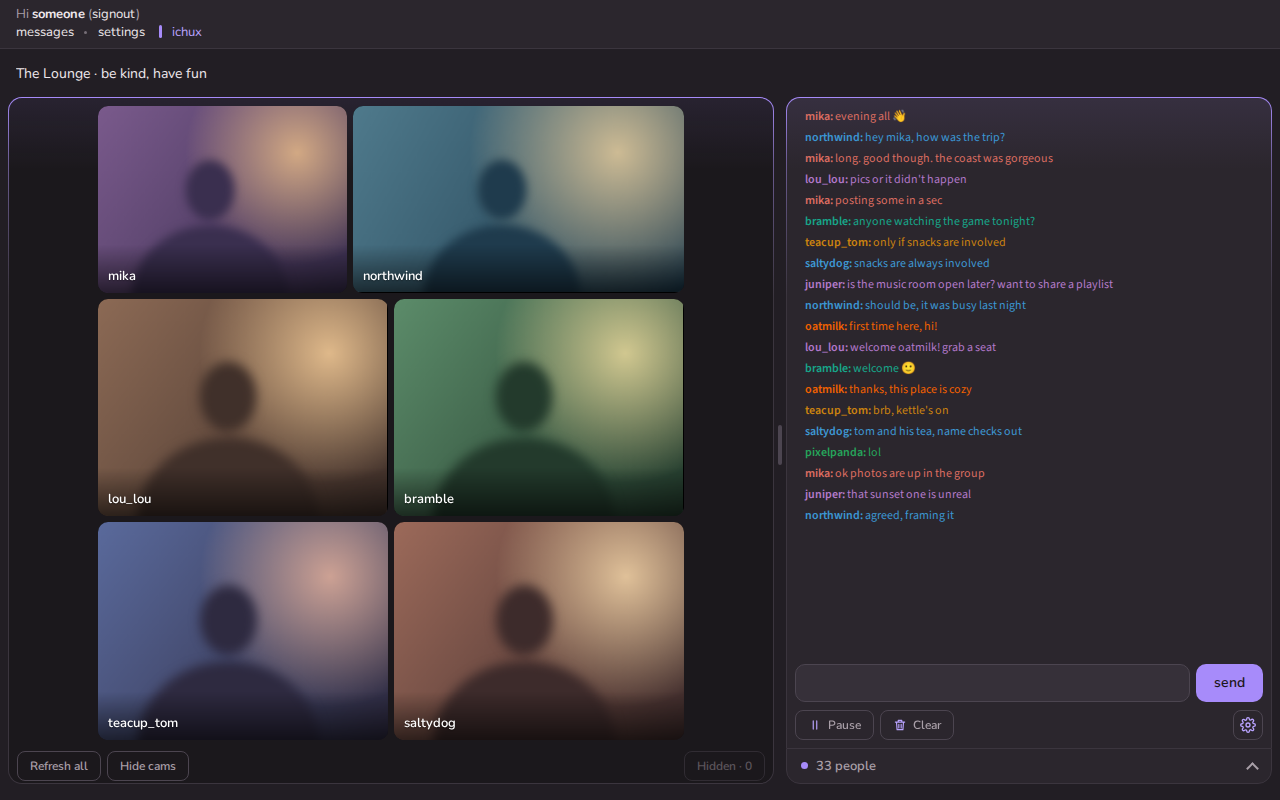
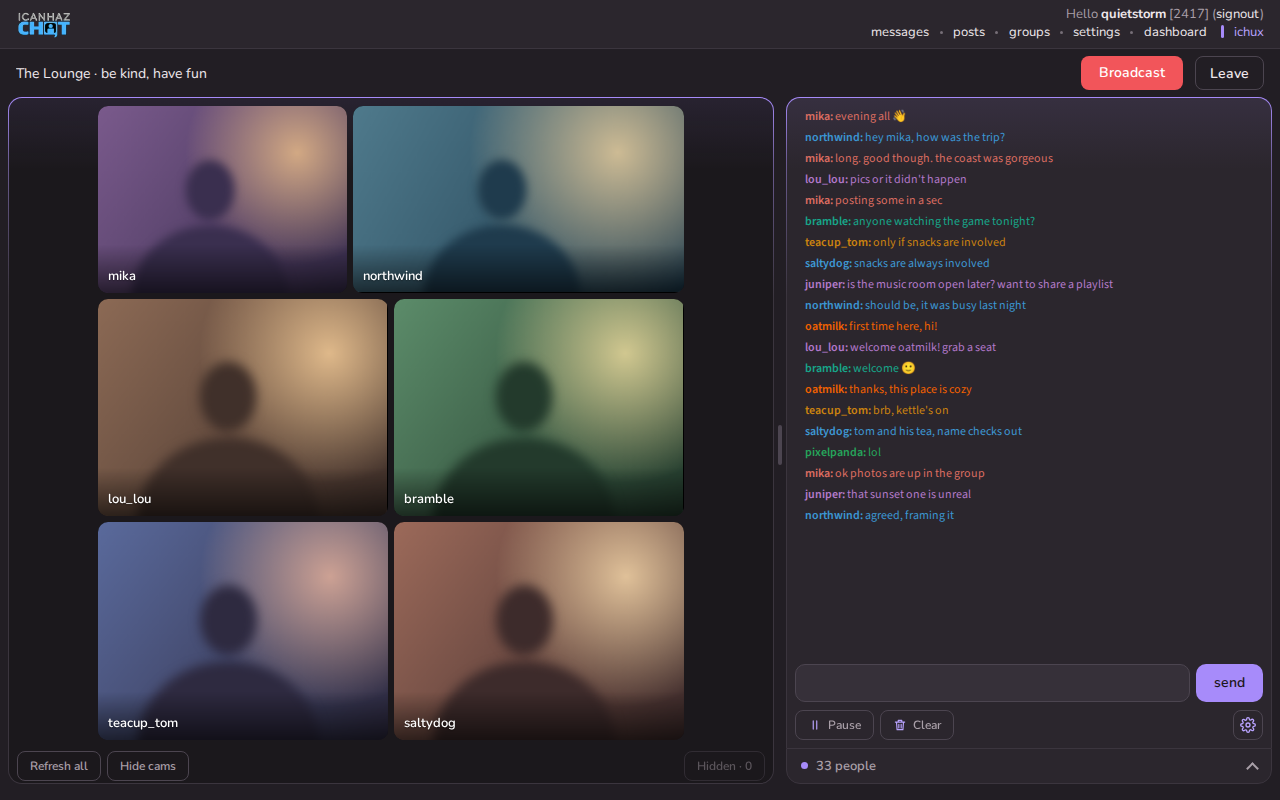
adding notes for new claude session

Changed region(s): [[0.8438, 0.0, 1.0, 0.125], [0.0, 0.0, 0.1562, 0.0625], [0.6875, 0.0312, 0.8125, 0.0625]]

diff --git a/scripts/screenshots.js b/scripts/screenshots.js
@@ -2,6 +2,11 @@
 // store/screenshots/.
 //
 //   node scripts/screenshots.js        (needs Playwright + Chromium)
+//   ICX_SHOT_LOGO=path/to/logo.png node scripts/screenshots.js
+//
+// The header matches the site's own (logo, greeting, karma, the five
+// links), as does the room's (topic, Broadcast, Leave). The site's logo isn't part of this repo: point ICX_SHOT_LOGO at
+// a copy of it to show it, or the header goes without.
 //
 // Shot from the test stand-ins (test/mock), copied to a temporary folder and
 // dressed for a store page: soft lit "rooms" with a blurred, featureless
@@ -101,7 +106,29 @@ const FEED_SOURCE = `
 
 `;
 
+// The site header as the real site writes it when you're signed in
+// (rooms call the outer div #panelHeader, other pages #ctl00_panelHeader).
+const VIEWER = 'quietstorm';
+function siteHeader(id, logo) {
+    const links = ['messages', 'posts', 'groups', 'settings', 'dashboard']
+        .map(l => `<a href="javascript:void 0">${l}</a>`).join(' ');
+    return `<div id="${id}" class="row gray_back page_header rounded">` +
+        `<div class="col-0 col-lg-2" style="z-index:1000;"><div class="page_header_logo" id="ichc-logo-header">` +
+        `<a href="javascript:void 0">${logo ? `<img id="ichc-logo" src="${logo}" alt="">` : ''}</a></div></div>` +
+        `<div class="col-12 col-lg-10 txtright" style="text-align:right"><div class="page_header_userlinks"><span id="${id === 'panelHeader' ? 'labelSignInStatus' : 'ctl00_labelSignInStatus'}">` +
+        `Hello <a href="javascript:void 0"><b id="userID" style="font-size:large;">${VIEWER}</b></a> [<span title="karma">2417</span>] ` +
+        `<span class="header_links">(<a href="javascript:void 0">signout</a>)<br>${links} </span></span></div></div></div>`;
+}
+
+function logoDataUrl() {
+    const file = process.env.ICX_SHOT_LOGO;
+    if (!file) { return ''; }
+    const type = file.endsWith('.webp') ? 'image/webp' : file.endsWith('.png') ? 'image/png' : 'image/jpeg';
+    return `data:${type};base64,${fs.readFileSync(file).toString('base64')}`;
+}
+
 function dressMocks() {
+    const logo = logoDataUrl();
     const dir = fs.mkdtempSync(path.join(os.tmpdir(), 'icx-shots-'));
     for (const f of fs.readdirSync(path.join(ROOT, 'test', 'mock'))) {
         fs.copyFileSync(path.join(ROOT, 'test', 'mock', f), path.join(dir, f));
@@ -139,26 +166,43 @@ function dressMocks() {
         `${open}${PEOPLE.length} people (<a href="javascript:void 0">refresh</a>) [click for details]: ` +
         `<input id="other-input" placeholder="some other text box"> ${PEOPLE.map(link).join(' ')}` +
         `<p>2 mods: ${link('northwind')} ${link('mika')}</p>${close}`);
-    room = room.replace('mock topic', 'The Lounge · be kind, have fun');
+    // The room header: topic, then Broadcast and Leave, as the site has them.
+    room = room.replace('<div id="topic">mock topic</div>',
+        '<div id="topicContainer"><div id="topic">The Lounge · be kind, have fun</div></div>' +
+        '<div id="camControl"><div id="broadcast" class="btn"><img alt="">&nbsp;<a href="javascript:void 0">Broadcast</a></div></div>' +
+        '<div id="signout"><b><a href="javascript:void 0">Leave</a></b></div>');
     room = room.replace('>command bar</div>', '></div>');   // the stand-in's placeholder text
-    room = room.replace(/<img id="ichc-logo"[^>]*>/, '');
+    room = room.replace(/<div id="panelHeader">[\s\S]*?<\/div><\/div>\n/, siteHeader('panelHeader', logo) + '\n');
+    // The room's emotimemes, in the site's hidden field (memes.js reads it).
+    const memes = Object.keys(MEMES).map(code => `:${code},${code}.svg,1`).join('|');
+    room = room.replace('<input id="txtMsg"', `<input id="hdnMemes" type="hidden" value="${memes}">\n        <input id="txtMsg"`);
     fs.writeFileSync(path.join(dir, 'room.html'), room);
 
-    let home = fs.readFileSync(path.join(dir, 'home.html'), 'utf8');
-    const ROOMS = { alpha: 'the_lounge', bravo: 'night_owls', charlie: 'studyhall', delta: 'music_room', echo: 'dashcams', foxtrot: 'movie_night', golf: 'yoga' };
-    for (const [from, to] of Object.entries(ROOMS)) { home = home.replaceAll(from, to); }
-    // No 18+ tags in a store listing, and no logo: the stand-in's is an empty
-    // image, and the site's isn't ours to show.
-    home = home.replaceAll('<p><span>18+</span></p>', '');
-    home = home.replace(/<img id="ichc-logo"[^>]*>/, '');
-    fs.writeFileSync(path.join(dir, 'home.html'), home);
     return dir;
 }
 
 // ── Shooting ─────────────────────────────────────────────────────────────────
 
+// Stand-in emotimemes: an emoji on a soft tile, served in place of the
+// site's image host (each room's real ones are its members' uploads).
+const MEMES = {
+    haha: ['😂', '#f5c84c'], happy: ['😊', '#f2a65a'], happydance: ['💃', '#e46f9b'], hai: ['👋', '#7cc5e8'],
+    hats: ['🎩', '#9a8cd8'], thanks: ['🙏', '#8fd18b'], shades: ['😎', '#5fb3b3'], chai: ['🍵', '#c9a27a'],
+    hug: ['🤗', '#f0a0a0'], yawn: ['🥱', '#b0b8c8'], party: ['🎉', '#e8b04c'], heart: ['❤', '#e57b7b'],
+};
+function memeSvg(code) {
+    const [emoji, bg] = MEMES[code] || ['🙂', '#ccc'];
+    return `<svg xmlns="http://www.w3.org/2000/svg" width="96" height="96" viewBox="0 0 96 96">` +
+        `<rect width="96" height="96" rx="18" fill="${bg}"/>` +
+        `<text x="48" y="66" font-size="52" text-anchor="middle" font-family="Noto Color Emoji, sans-serif">${emoji}</text></svg>`;
+}
+
 async function open(browser, url, { theme = 'dark', room = false, setup } = {}) {
     const page = await browser.newPage({ viewport: { width: W, height: H }, colorScheme: theme, deviceScaleFactor: 1 });
+    await page.route('https://www.vidble.com/**', route => route.fulfill({
+        contentType: 'image/svg+xml',
+        body: memeSvg(path.basename(new URL(route.request().url()).pathname, '.svg')),
+    }));
     await page.addInitScript(root => {
         globalThis.chrome = { runtime: { getURL: p => `file://${root}/${p}` } };
         try { localStorage.clear(); } catch (_) {}
@@ -246,21 +290,27 @@ async function main() {
     await page.evaluate(() => document.getElementById('icx-chat-settings').querySelector('[data-accent="aqua"]')?.click());
     await shot(page, '4-chat-settings.png');
 
-    // 5. The lobby, light theme, with theme and accent from the header.
-    page = await open(browser, `file://${mocks}/home.html`, {
-        theme: 'light',
+    // 5. Emotimeme autocomplete, part way through a message.
+    page = await open(browser, room, { theme: 'dark', room: true });
+    await page.click('#txtMsg');
+    await page.keyboard.type('welcome back! :ha', { delay: 20 });
+    await page.waitForTimeout(600);
+    await shot(page, '5-emotimemes.png');
+
+    // 6. Hidden cams: two hidden here (one a nickname, hidden for this visit
+    // only), and a few more from other visits who aren't on cam.
+    page = await open(browser, room, {
+        theme: 'light', room: true,
         setup: () => {
-            const scenes = [['#7a5a8c', '#3a2f4f'], ['#4f7a8c', '#1f3b4d'], ['#8c6a55', '#40302a'], ['#5c8c6a', '#233a2c'],
-                ['#5a6a9c', '#2e2a40'], ['#9c6a5a', '#3d2b2b'], ['#6a8c8c', '#253d3d']];
-            document.querySelectorAll('.preview_room').forEach((tile, i) => {
-                const [a, b] = scenes[i % scenes.length];
-                tile.style.backgroundImage = `radial-gradient(circle at 78% 28%, #ffe2b0aa, transparent 45%), linear-gradient(135deg, ${a}, ${b})`;
-            });
+            localStorage.setItem('icx_hidden', JSON.stringify(['bramble', 'driftwood', 'zigzag_22', 'nightowl88']));
+            sessionStorage.setItem('icx_nicks', JSON.stringify(['saltydog']));
+            sessionStorage.setItem('icx_hiddenNicks', JSON.stringify(['saltydog']));
         },
     });
-    await page.click('#icx-menu-link');
-    await page.waitForTimeout(300);
-    await shot(page, '5-lobby-and-settings.png');
+    await page.click('#icx-hidden-btn');
+    await page.click('#icx-hidden-menu [data-offcam-toggle]');
+    await page.waitForTimeout(400);
+    await shot(page, '6-hidden-cams.png');
 
     // Small promo tile (440×280): the icon and the name.
     page = await browser.newPage({ viewport: { width: 440, height: 280 }, deviceScaleFactor: 1 });
